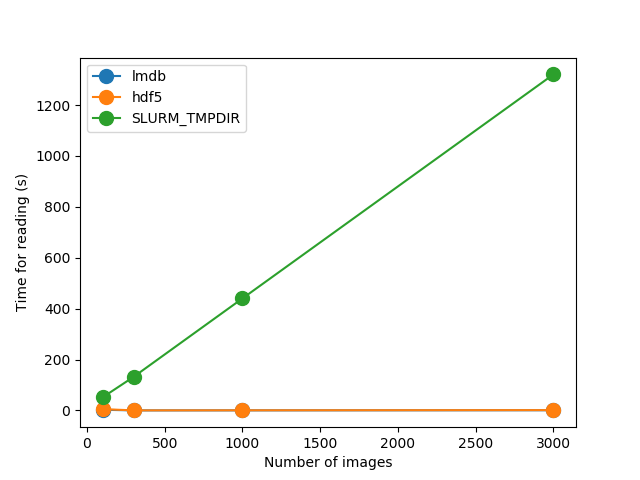
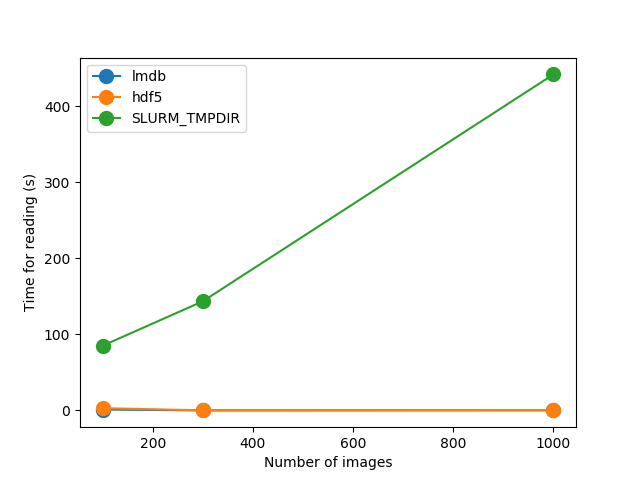
TextImages: random with SLURM_TMPDIR

diff --git a/TextImages/read_benchmarks/read_test.py b/TextImages/read_benchmarks/read_test.py
@@ -53,14 +53,14 @@ print("---reading files")
 for N_of_files in N_to_read:
     
     ## Sequentital read (next block of lines)
-    key_list = all_keys[:N_of_files]
-    key_list_hdf5 = all_keys_hdf5[:N_of_files]    
+    #key_list = all_keys[:N_of_files]
+    #key_list_hdf5 = all_keys_hdf5[:N_of_files]    
     
     ## Random access (next block of lines)
     random.seed(1)
-    #chosen_items = random.sample(range(len(all_keys)), N_of_files)
-    #key_list = [all_keys[k] for k in chosen_items]
-    #key_list_hdf5 = [all_keys_hdf5[k] for k in chosen_items]
+    chosen_items = random.sample(range(len(all_keys)), N_of_files)
+    key_list = [all_keys[k] for k in chosen_items]
+    key_list_hdf5 = [all_keys_hdf5[k] for k in chosen_items]
     
     # monitor
     print("first five keys now: ")
@@ -119,7 +119,15 @@ for N_of_files in N_to_read:
         path_to_file = os.environ['SLURM_TMPDIR'] + "/" + \
                        "mnt/ramdisk/max/90kDICT32px/" + \
                        df[df.key == key]["path"].tolist()[0]
-        PIL_image = Image.open(path_to_file)
+        
+        ## Read file
+        #PIL_image = Image.open(path_to_file)                       
+                       
+        with open(path_to_file, mode='rb') as file: # b is important -> binary
+                stored_image = file.read()                       
+        PIL_image = Image.open(io.BytesIO(stored_image))                       
+        
+        ## convert to numpy
         im_ar4[key] = np.asarray(PIL_image)
 
     toc = time.time()
@@ -143,5 +151,6 @@ lines.set_xlabel("Number of images");
 lines.set_ylabel("Time for reading (s)");
 #plt.savefig('./read_sequential.png')
 #plt.savefig('./read_rand.png')
-plt.savefig('./read_sequential_with_slurmTmpdir.png')
+#plt.savefig('./read_sequential_with_slurmTmpdir.png')
+plt.savefig('./read_random_with_slurmTmpdir.png')
 

diff --git a/TextImages/read_benchmarks/README.md b/TextImages/read_benchmarks/README.md
@@ -26,11 +26,17 @@ exec(open("read_test.py").read())
 Sequential, including SLURM_TMPDIR
 
 Time to extract tar.gz file to $SLURM_TMPDIR 
-extracting process took (NOT included in total bellow): 1267 sec (~20 in)
+500 - 1300 sec (~ 8-20 min)
 
-{'lmdb': [2.596424102783203, 0.06273317337036133, 0.19448256492614746, 0.5714616775512695], 'hdf5': [5.000521659851074, 0.15655946731567383, 0.42313432693481445, 1.1924903392791748], 'SLURM_TMPDIR': [51.129212856292725, 131.9659469127655, 440.17245292663574, 1320.5114650726318], 'N_to_read': [100, 300, 1000, 3000]}
+{'lmdb': [1.2103171348571777, 0.060796260833740234, 0.1916961669921875], 'hdf5': [2.9731316566467285, 0.15660810470581055, 0.41532135009765625], 'SLURM_TMPDIR': [85.01550245285034, 143.38232970237732, 441.6159420013428], 'N_to_read': [100, 300, 1000]}
 
 ![Sequential_read_plot](read_sequential_with_slurmTmpdir.png)
+
+Random access, including SLURM_TMPIDR
+
+{'lmdb': [3.1788249015808105, 4.686114311218262, 15.420785427093506], 'hdf5': [4.800350189208984, 10.696107864379883, 29.679922103881836], 'SLURM_TMPDIR': [56.061922788619995, 143.91036319732666, 480.6018352508545], 'N_to_read': [100, 300, 1000]}
+
+![Sequential_read_plot](read_random_with_slurmTmpdir.png)
 
 Sequential
 
